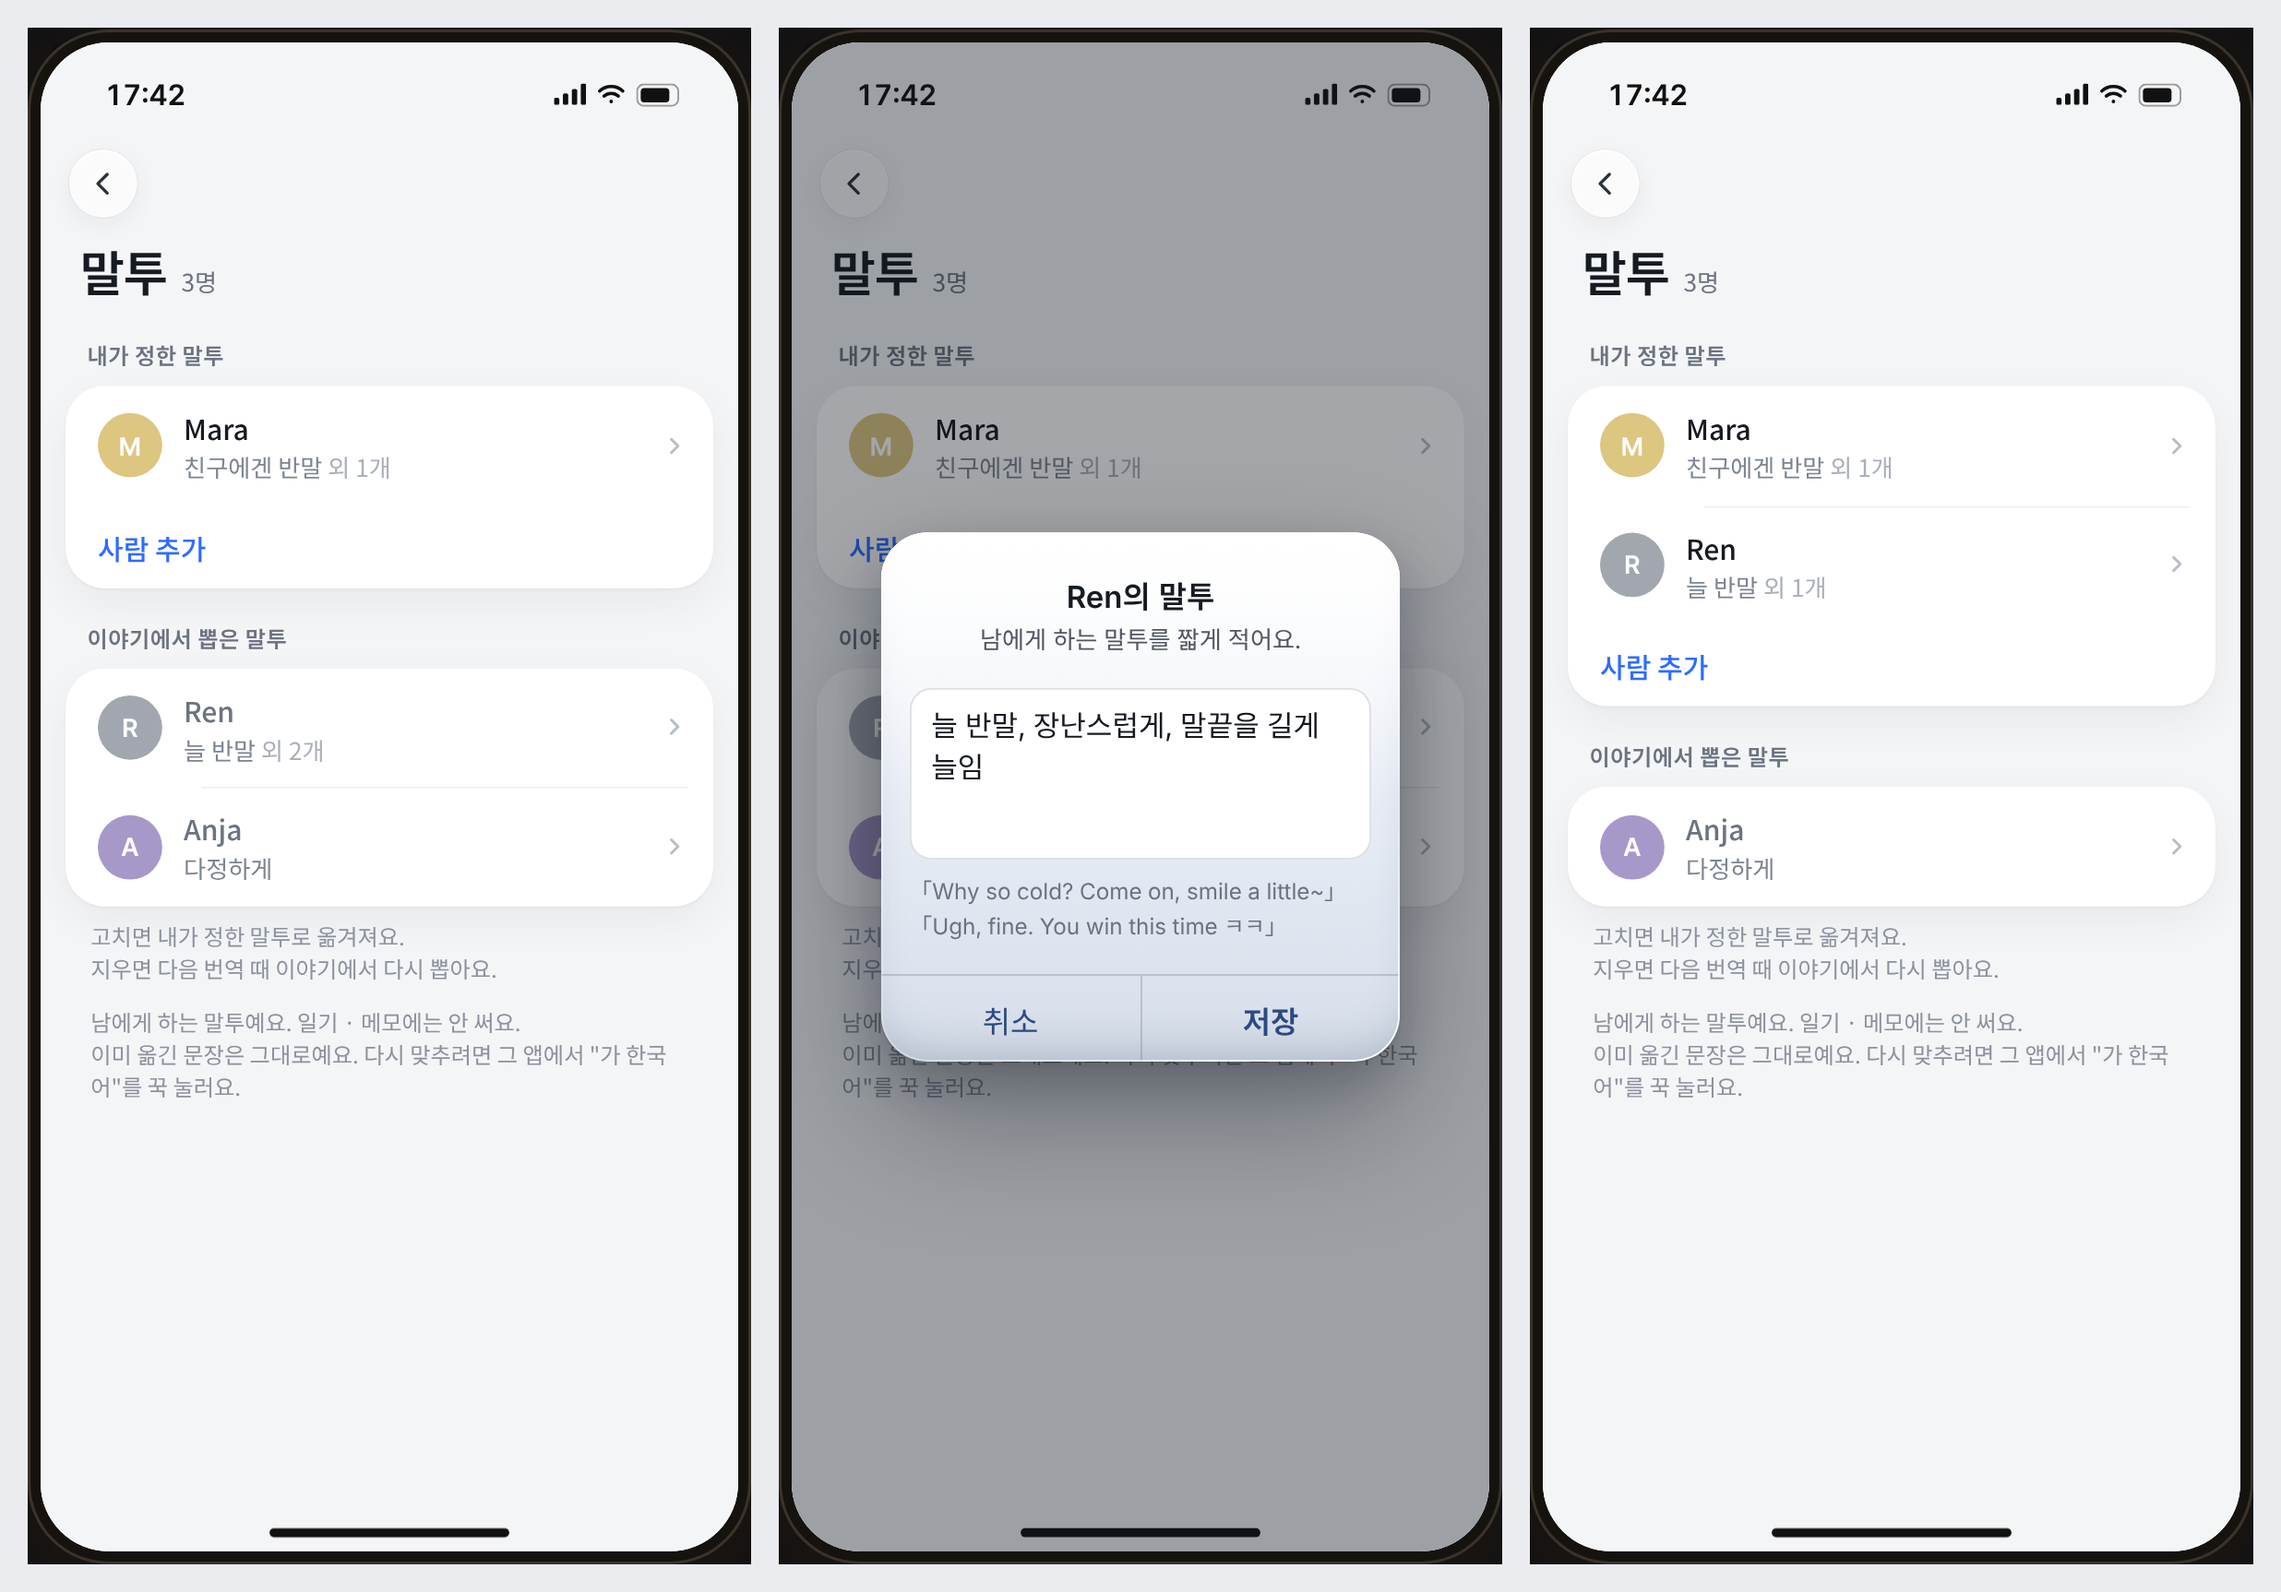
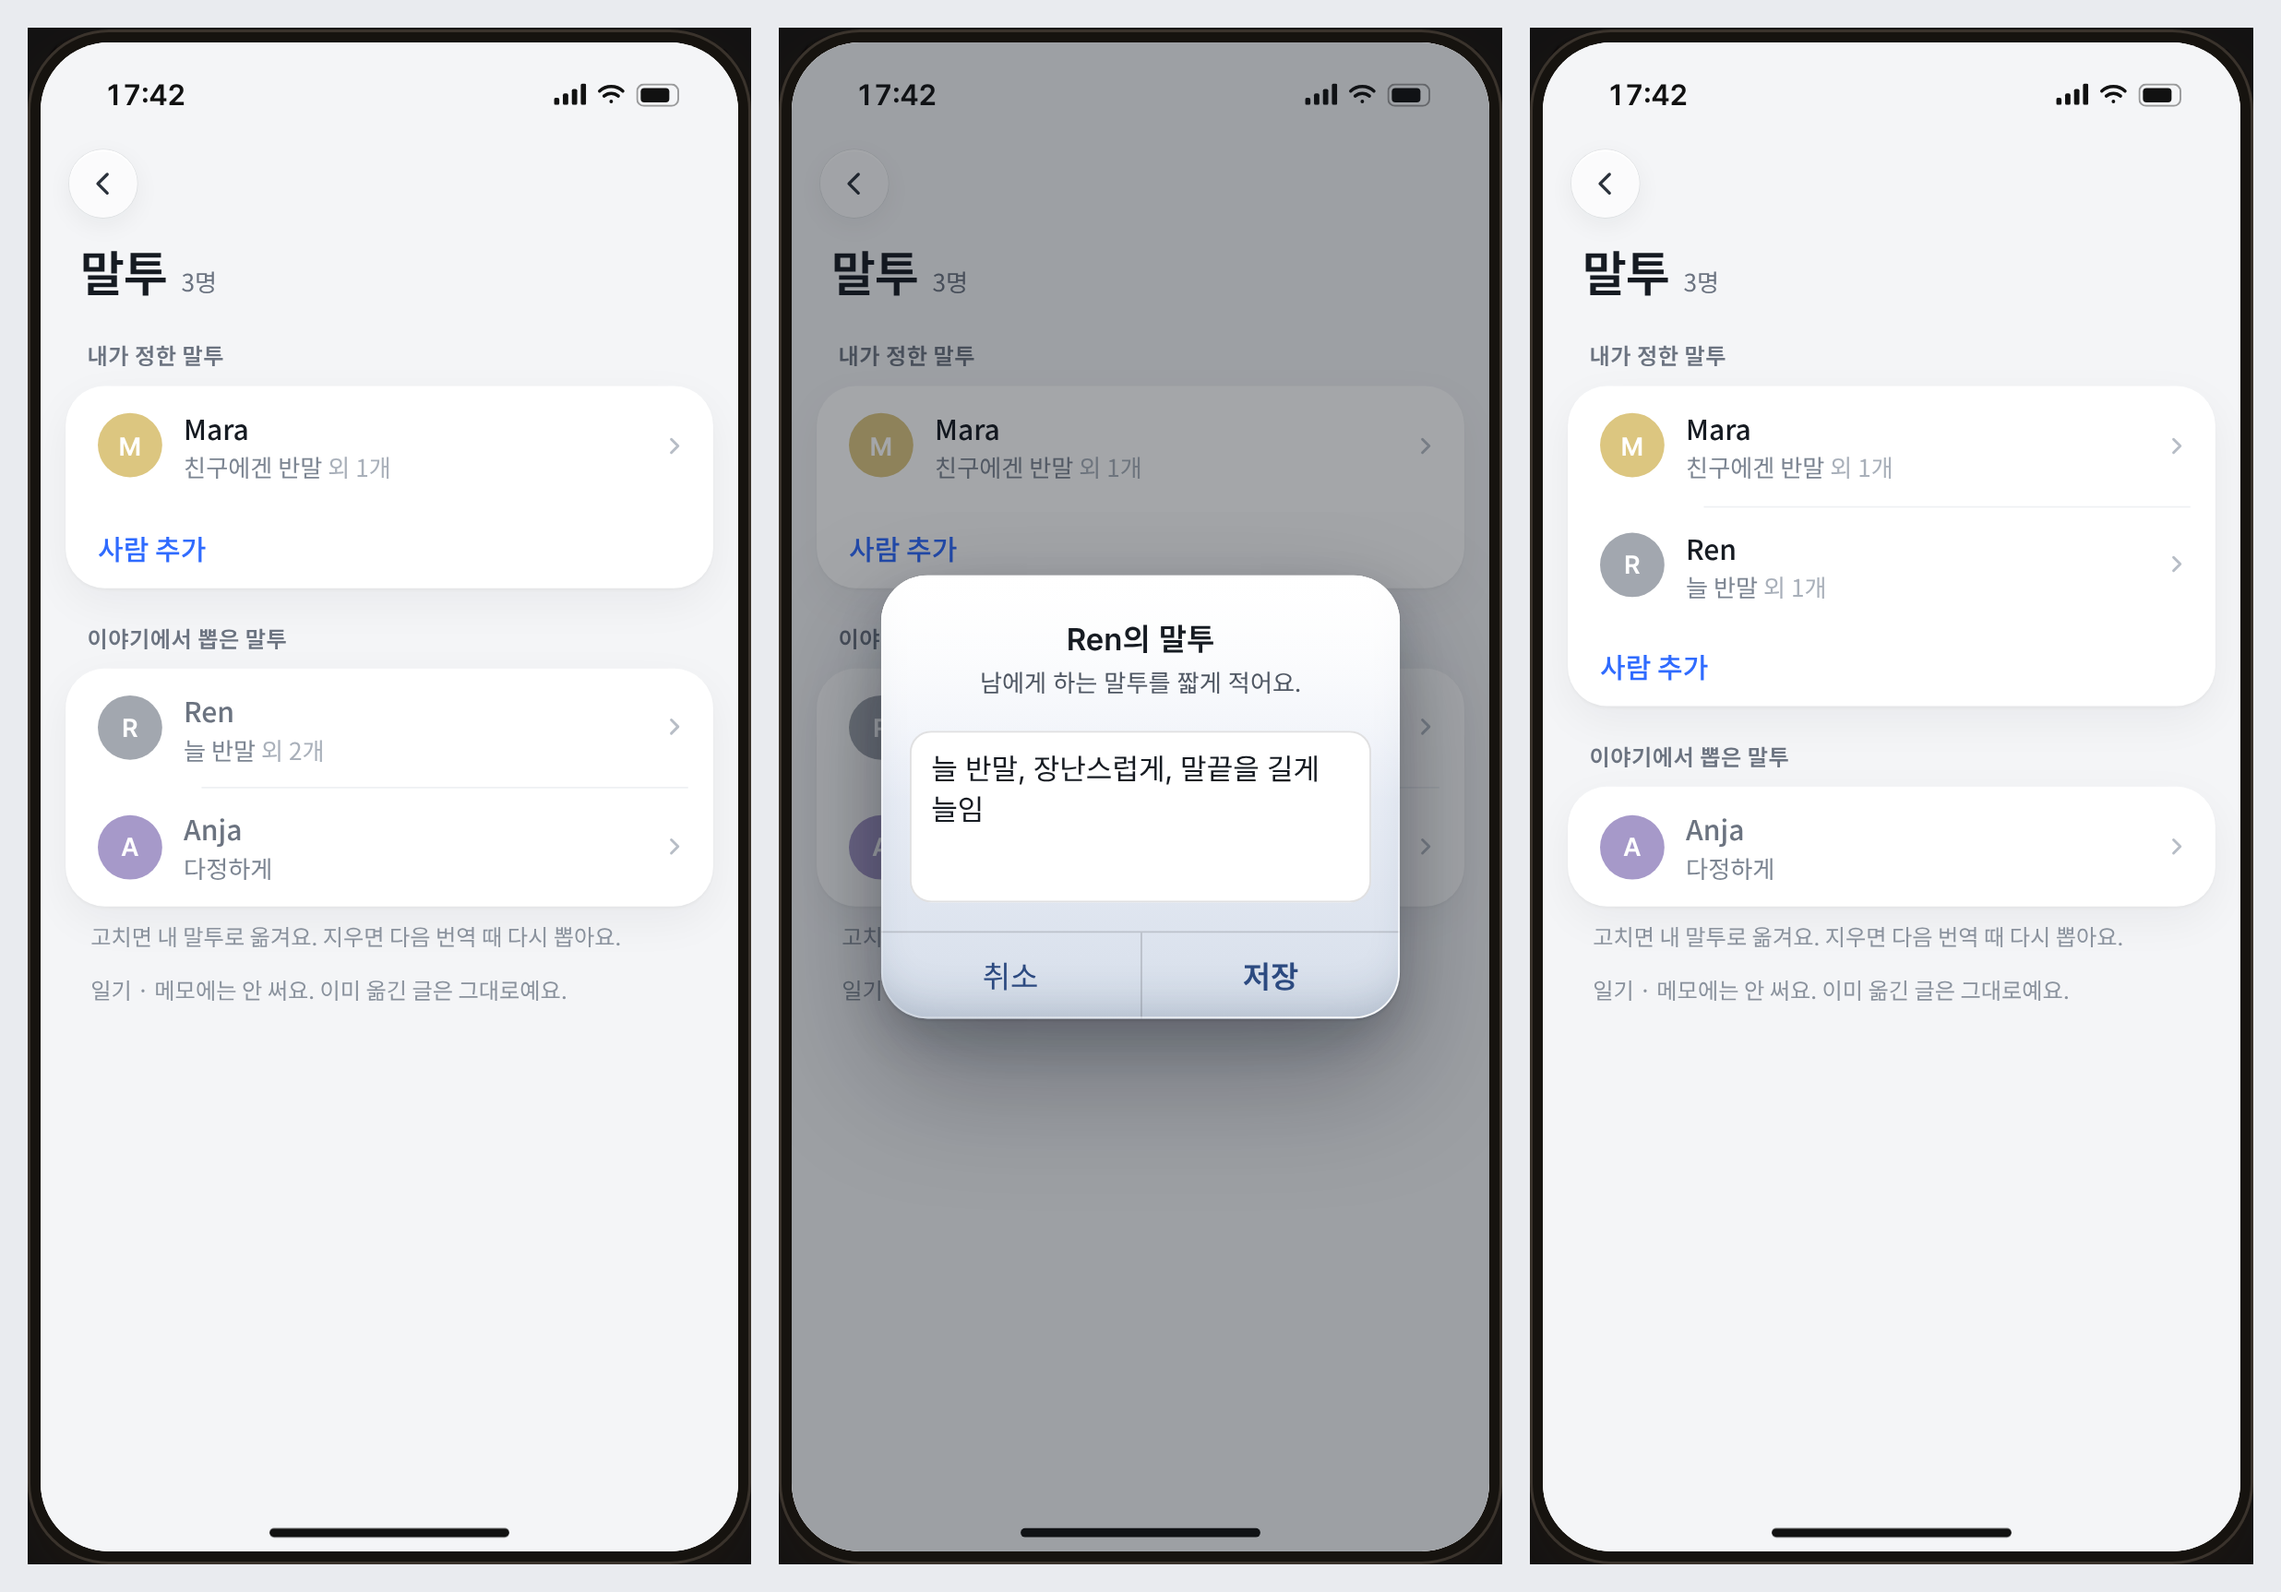
말투: no evidence in the edit alert; the two foot notes cut to one short line each
Claude-Session: https://claude.ai/code/session_01TBUyc5NesEMBcPKHWzpL6W

Changed region(s): [[0.3738, 0.3071, 0.623, 0.7063], [0.0311, 0.5834, 0.2803, 0.7063], [0.6853, 0.5834, 0.9345, 0.7063]]

diff --git a/src/phone.js b/src/phone.js
@@ -215,10 +215,10 @@ export async function openPhone(who = null) {
     // the same sheet with a line to type (a city): resolves the text, or false. area: a few lines that wrap (a 말투), an
     // editable div as 도시 찾기's (a theme that paints every textarea can't reach it); Enter still saves
     const fieldVal = f => String(f.value ?? f.innerText ?? '').replace(/\s+/g, ' ').trim();
-    const askInput = (title, text, value = '', ok = '저장', { area = false, quotes = [] } = {}) => {
+    const askInput = (title, text, value = '', ok = '저장', { area = false } = {}) => {
         ask?.done(false);
         return new Promise(done => {
-            const el = $(`<div class="pcf" role="dialog" aria-modal="true" aria-label="${esc(title)}"><div class="pcf_box"><div class="pcf_card"><div class="pcf_msg"><b>${esc(title)}</b>${text ? `<span>${esc(text)}</span>` : ''}</div><div class="pcf_in">${area ? `<div class="pcf_field pcf_area" contenteditable="true" role="textbox" aria-multiline="true" enterkeyhint="done" spellcheck="false">${esc(value)}</div>` : `<input type="text" class="pcf_field" value="${esc(value)}" enterkeyhint="done" autocomplete="off">`}${quotes.length ? `<div class="pcf_ev">${quotes.map(q => `<span>「${esc(q)}」</span>`).join('')}</div>` : ''}</div><div class="pcf_btns"><div role="button" tabindex="0" class="pcf_no">취소</div><div role="button" tabindex="0" class="pcf_ok safe">${esc(ok)}</div></div></div></div></div>`)[0];
+            const el = $(`<div class="pcf" role="dialog" aria-modal="true" aria-label="${esc(title)}"><div class="pcf_box"><div class="pcf_card"><div class="pcf_msg"><b>${esc(title)}</b>${text ? `<span>${esc(text)}</span>` : ''}</div><div class="pcf_in">${area ? `<div class="pcf_field pcf_area" contenteditable="true" role="textbox" aria-multiline="true" enterkeyhint="done" spellcheck="false">${esc(value)}</div>` : `<input type="text" class="pcf_field" value="${esc(value)}" enterkeyhint="done" autocomplete="off">`}</div><div class="pcf_btns"><div role="button" tabindex="0" class="pcf_no">취소</div><div role="button" tabindex="0" class="pcf_ok safe">${esc(ok)}</div></div></div></div></div>`)[0];
             ask = { el, done: v => { ask = null; el.remove(); done(v); } };
             placeAsk();
             if (el.isConnected) { const f = el.querySelector('.pcf_field'); f.focus({ preventScroll: true }); if (f.select) f.select(); else { const r = document.createRange(); r.selectNodeContents(f); const sel = getSelection(); sel.removeAllRanges(); sel.addRange(r); } }
@@ -1237,9 +1237,7 @@ export async function openPhone(who = null) {
     $root.on('click', '.na_ph_kvrow', async function (e) {
         e.stopPropagation(); const p = phone(), k = Number(this.dataset.i), v = p?.koVoice?.[k]; if (!v) return;
         const w = String(v.who ?? v.from ?? '').trim();
-        // a row the story gave: its evidence (the story's or card's own words, up to two) small under the field (docs/mockups/phone-voice evidence B)
-        const quotes = v.by === 'model' && Array.isArray(v.evidence) ? v.evidence.map(x => String(x || '').trim().replace(/^["“「]+|["”」]+$/g, '')).filter(Boolean).slice(0, 2) : [];
-        const style = await askInput(`${w}의 말투`, '남에게 하는 말투를 짧게 적어요.', String(v.style || ''), '저장', { area: true, quotes });
+        const style = await askInput(`${w}의 말투`, '남에게 하는 말투를 짧게 적어요.', String(v.style || ''), '저장', { area: true });
         if (!style || phone() !== p || p.koVoice?.[k] !== v) return;
         await voiceSet(p, k, style.slice(0, 120));
     });

diff --git a/src/phoneapps.js b/src/phoneapps.js
@@ -680,8 +680,8 @@ export function setVoice(p, now) {
       <div class="ax_scroll">${axH1('말투', rows.length ? `${rows.length}명` : '')}
         <div class="ax_sec">내가 정한 말투</div>
         <div class="ax_card">${mine.map(row).join('')}<div role="button" tabindex="0" class="ax_rw ax_rwn na_ph_kvadd"><span class="ax_tx"><span class="ax_n ax_blue">사람 추가</span></span></div></div>
-        ${auto.length ? `<div class="ax_sec">이야기에서 뽑은 말투</div><div class="ax_card">${auto.map(row).join('')}</div><div class="ax_foot">고치면 내가 정한 말투로 옮겨져요.<br>지우면 다음 번역 때 이야기에서 다시 뽑아요.</div>` : ''}
-        <div class="ax_foot">남에게 하는 말투예요. 일기 · 메모에는 안 써요.<br>이미 옮긴 문장은 그대로예요. 다시 맞추려면 그 앱에서 "가 한국어"를 꾹 눌러요.</div>
+        ${auto.length ? `<div class="ax_sec">이야기에서 뽑은 말투</div><div class="ax_card">${auto.map(row).join('')}</div><div class="ax_foot">고치면 내 말투로 옮겨요. 지우면 다음 번역 때 다시 뽑아요.</div>` : ''}
+        <div class="ax_foot">일기 · 메모에는 안 써요. 이미 옮긴 글은 그대로예요.</div>
         <i class="ax_pad"></i>
       </div>
       ${axInd()}`;

diff --git a/css/57-phone-delivery.css b/css/57-phone-delivery.css
@@ -407,7 +407,6 @@ body:is(.na_darkui, :not(.na_darkui)) dialog.popup:has(.na_popup) .na_popup .ax 
 .pcf_in { position: relative; padding: 0 16px 16px; }
 .pcf .pcf_field { box-sizing: border-box; width: 100%; height: 40px; margin: 0; padding: 0 12px; border: 0; border-radius: 12px; background: #fff; color: #161b22; font: inherit; font-size: 16px; box-shadow: inset 0 0 0 1px rgba(60, 60, 67, 0.16); outline: none; }
 .pcf .pcf_field.pcf_area { height: auto; min-height: 96px; max-height: 168px; overflow-y: auto; padding: 10px 12px; line-height: 1.45; text-align: left; white-space: pre-wrap; overflow-wrap: anywhere; outline: none; cursor: text; -webkit-user-select: text; user-select: text; }
-.pcf_ev { display: flex; flex-direction: column; gap: 2px; margin-top: 10px; text-align: left; font-size: 12.5px; --axfs: 12.5px; line-height: 1.45; color: #6b7380; --axfg: #6b7380; overflow-wrap: anywhere; }
 .pcf_sub { margin-right: 8px; font-size: 13.5px; --axfs: 13.5px; color: #4f5763; }
 .pcf_ok:active, .pcf_no:active { background: rgba(60, 60, 67, 0.08); }
 /* 위치 정보 › 도시 고르기 (시안 B): a row a place with its flag, a line under it; the country flags in a grid */
